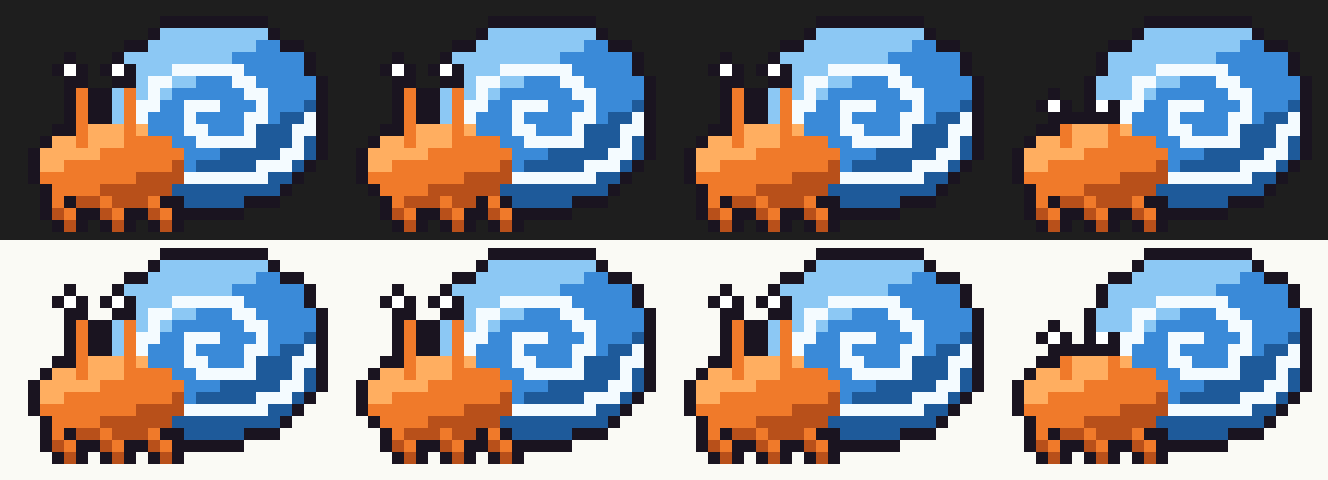
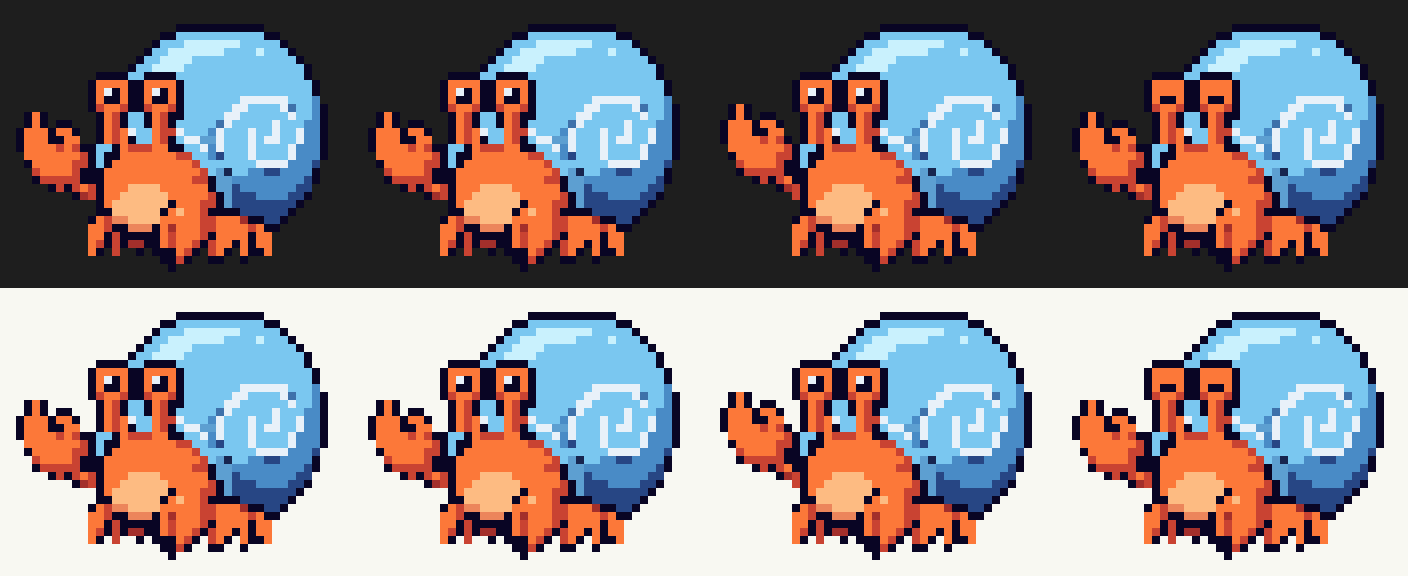
P5-24: redraw Crabbit, Sunmane, Twiggle, Flopple and Serpentide
Each is converted from @victor-aguilars' generator reference with ref-sprite,
then finished by hand (faces, eyes, outlines, spots). Designs, colours, types
and dex entries are unchanged. Sunmane and Serpentide are close-ups that keep
the flame tail and the water ring. Idles are calm: 2-3 fps, mostly rest frames.

Updates credits, previews, roadmap (P5-24 done), workboard, and adds the
session handoff.

diff --git a/docs/sessions/2026-10-16-victor-aguilars-P5-24.md b/docs/sessions/2026-10-16-victor-aguilars-P5-24.md
@@ -1,0 +1,87 @@
+# Session — 2026-10-16 — @victor-aguilars — P5-24 Redraw the first five Modsters
+
+- **Task:** P5-24 — Redraw the first five Modsters
+- **Branch:** `p5-24-redraw-first-five` (from the `victor-aguilars` fork, based on `claim/p5-24`)
+- **Status at end:** in-review
+- **Last commit:** see the PR (this handoff is in the same commit)
+
+## Goal for this session
+
+Bring Crabbit, Sunmane, Twiggle, Flopple and Serpentide up to the upgraded art
+style with more detail and better idle animations, and finish every "done when"
+item of P5-24.
+
+## Done
+
+- P5-24 added to `docs/ROADMAP.md` and claimed (PR #122, `claim/p5-24`).
+- Reference prompts written; @victor-aguilars made one reference per Modster
+  (plus hide poses for Crabbit and Twiggle) with an image generator. References
+  stay out of the repo.
+- New `sprite.png` + `sprite.sprite.json` (via `npm run sprite`) for all five,
+  4 frames each:
+  - **Crabbit** 40×32, 14 colours, 2 fps: rest, rest, claw wave, blink. Eyes repainted.
+  - **Sunmane** 44×32, 24 colours, 3 fps: a close-up of head, flame mane and
+    tail. Face repainted (eyes, muzzle, nose, mouth). Rest, two soft mane
+    flickers, blink.
+  - **Twiggle** 32×30, 20 colours, 2 fps: rest, rest, glance left, blink.
+    Black specks turned into twig shadow; the hollow and eyes repainted.
+  - **Flopple** 46×30, 24 colours, 2 fps: rest, breath, rest, breath with a
+    rising Z. Face redrawn (the shrink erased it).
+  - **Serpentide** 34×32, 24 colours, 2 fps: a head-and-neck close-up rising
+    from a hand-drawn foam ring. Eye repainted, gold spots added. Rest, foam
+    shimmer, rest, blink.
+- `fps` updated in each `modster.json`. Names, text and dex entries unchanged.
+- `plugin/content/CREDITS.md` rows note the P5-24 redraws.
+- `docs/previews/<id>.png` regenerated for all five; `docs/previews/p5-24-redraws.gif`
+  shows the five animating on a 4 s loop, dark and light.
+- Verified: `npm run check:content` (no errors), `node tools/check-tracking.mjs`,
+  `claude plugin validate ./plugin --strict`, `claude plugin test ./plugin`
+  (670 pass). Approved by @victor-aguilars from enlarged previews and the GIF.
+  Not tried in a live session.
+
+## Decisions made
+
+- P5-24 is a new task, not part of P5-21; one PR for all five (@victor-aguilars).
+- Keep each design, colours, types and dex entry (@victor-aguilars).
+- Sunmane and Serpentide are close-ups so their faces read, but keep Sunmane's
+  tail and Serpentide's water ring (@victor-aguilars).
+- Animations calmed down after a first richer pass felt distracting: 2–3 fps,
+  mostly rest frames, one or two small moves (@victor-aguilars).
+- Crabbit's and Twiggle's hide poses were not used: Crabbit's shows the shell at
+  another angle, and Twiggle hiding every loop was too distracting.
+
+## Problems and findings
+
+- `ref-sprite`'s cut-out failed on four of five references (outlines not dark
+  enough, scenic backgrounds). What worked: key the background first by region
+  growing from the crop edges (neighbour colour step < 14), keep the largest
+  shape, fill holes, paint a 2 px dark ring, then run `ref-sprite` on that and
+  add a 1 px outline afterwards. Scripts lived in the scratchpad.
+- For a close-up cut at the bottom, pass `--edges top,left,right` to both the
+  keying and `ref-sprite`.
+- An area-average shrink was tried against `ref-sprite`'s majority vote; it was
+  muddier. Majority vote stays the better choice.
+- Faces get lost when the iris colour is close to the fur (Sunmane). Pick a
+  clearly darker iris.
+- A tumbleweed's twigs turn into speckles at 30 px; recolouring interior black
+  specks to a twig-shadow brown fixed most of it.
+- `npm run sprite` needs an even frame height; pad 1 transparent row on top.
+- The previous handoff's note holds: repo tools need Node 22.18+
+  (`~/.nvm/versions/node/v22.23.3/bin`).
+
+## Next steps
+
+1. @danielpg95 reviews the P5-24 PR; someone runs `claude --plugin-dir ./plugin`, checks Saltbreeze Bay and Dustwind Expanse with `/modsters hunt` on a dark and a light theme, and ticks the PR's "Tried it" box.
+2. Continue P5-21 (Saltbreeze Bay roster) with the same reference workflow.
+
+## Open questions
+
+- Close-up framing is now used for Reyrayo, Sunmane and Serpentide. Should it become a decision for large or detailed creatures? — @victor-aguilars, then the maintainer
+
+## Found along the way
+
+- `ref-sprite` could take a `--key-bg` option (region-grow the background and add
+  a dark ring) and pad to an even height; both were needed here again.
+- `tools/preview.mjs` (8× previews and roster GIFs) is still missing; previews
+  came from one-off scripts again.
+- PR #113's roster GIF covered 1 s; a 4 s loop shows every frame at 2–3 fps.

diff --git a/docs/ROADMAP.md b/docs/ROADMAP.md
@@ -611,13 +611,13 @@ Goal: users keep or remove built-ins and add, edit, and remove their own biomes 
   - [x] `npm run check:content` passes.
   - [x] A preview in the PR description (enlarged, every frame, dark and light).
 
-#### [ ] P5-24 — Redraw the first five Modsters
+#### [x] P5-24 — Redraw the first five Modsters
 - **Depends on:** P5-22
 - **Size:** M
-- **Goal:** bring Crabbit (#003), Sunmane (#004), Twiggle (#005), Flopple (#006) and Serpentide (#007) up to the upgraded art style, with more detail and better idle animations (asked by @victor-aguilars, 2026-10-16). Each is redrawn from @victor-aguilars' reference with `npm run ref-sprite`, keeping its design, colours, types and dex entry.
+- **Goal:** bring Crabbit (#003), Sunmane (#004), Twiggle (#005), Flopple (#006) and Serpentide (#007) up to the upgraded art style, with more detail and better idle animations (asked by @victor-aguilars, 2026-10-16). Each is redrawn from @victor-aguilars' reference with `npm run ref-sprite`, keeping its design, colours, types and dex entry. Sunmane and Serpentide are shown as close-ups so their faces read, keeping Sunmane's flame tail and Serpentide's water ring (asked by @victor-aguilars, 2026-10-16).
 - **Done when:**
-  - [ ] Each of the five has a new `sprite.png` and `sprite.sprite.json` (converted with `npm run sprite`): up to 32 px tall and 48 px wide (decision 0033), ≤ 24 colours (decision 0034), 2–4 frames.
-  - [ ] Each idle animates a part that matches its text: Crabbit peeks from its shell, Sunmane's mane flickers, Twiggle peeks out of its tumbleweed, Flopple sleeps and breathes, Serpentide sways above a ripple.
-  - [ ] The credits rows in `plugin/content/CREDITS.md` for the five sprites are updated.
-  - [ ] `npm run check:content` passes.
-  - [ ] `docs/previews/` is regenerated for the five, and the PR description shows each one (enlarged, every frame, dark and light).
+  - [x] Each of the five has a new `sprite.png` and `sprite.sprite.json` (converted with `npm run sprite`): up to 32 px tall and 48 px wide (decision 0033), ≤ 24 colours (decision 0034), 2–4 frames.
+  - [x] Each has a calm idle (2–3 fps, mostly rest frames, asked by @victor-aguilars, 2026-10-16): Crabbit waves its claw and blinks, Sunmane's mane flickers and it blinks, Twiggle glances and blinks from its hollow, Flopple breathes in its sleep with a rising Z, Serpentide blinks above a shimmering foam ring.
+  - [x] The credits rows in `plugin/content/CREDITS.md` for the five sprites are updated.
+  - [x] `npm run check:content` passes.
+  - [x] `docs/previews/` is regenerated for the five, and the PR description shows each one (enlarged, every frame, dark and light).

diff --git a/plugin/content/CREDITS.md b/plugin/content/CREDITS.md
@@ -16,11 +16,11 @@ noted (decision 0011). Add a row whenever you add or change an asset.
 | `modsters/lamparito/sprite.png` | @victor-aguilars (drawn with Claude Code) | CC BY 4.0 | |
 | `modsters/dunebun/sprite.png` | @victor-aguilars (drawn with Claude Code) | CC BY 4.0 | |
 | `modsters/hootlet/sprite.png` | @danielpg95 and @victor-aguilars (drawn with Claude Code) | CC BY 4.0 | Hootlet, redrawn in P5-23 from @danielpg95's reference, keeping @victor-aguilars' design (leafy owlet with a head sprout) |
-| `modsters/crabbit/sprite.png` | @victor-aguilars (drawn with Claude Code) | CC BY 4.0 | |
-| `modsters/sunmane/sprite.png` | @victor-aguilars (drawn with Claude Code) | CC BY 4.0 | |
-| `modsters/twiggle/sprite.png` | @victor-aguilars (drawn with Claude Code) | CC BY 4.0 | |
-| `modsters/flopple/sprite.png` | @victor-aguilars (drawn with Claude Code) | CC BY 4.0 | |
-| `modsters/serpentide/sprite.png` | @victor-aguilars (drawn with Claude Code) | CC BY 4.0 | |
+| `modsters/crabbit/sprite.png` | @victor-aguilars (drawn with Claude Code) | CC BY 4.0 | Crabbit, redrawn in P5-24 from @victor-aguilars' reference |
+| `modsters/sunmane/sprite.png` | @victor-aguilars (drawn with Claude Code) | CC BY 4.0 | Sunmane, redrawn in P5-24 from @victor-aguilars' reference as a close-up (head, mane and tail) |
+| `modsters/twiggle/sprite.png` | @victor-aguilars (drawn with Claude Code) | CC BY 4.0 | Twiggle, redrawn in P5-24 from @victor-aguilars' reference |
+| `modsters/flopple/sprite.png` | @victor-aguilars (drawn with Claude Code) | CC BY 4.0 | Flopple, redrawn in P5-24 from @victor-aguilars' reference |
+| `modsters/serpentide/sprite.png` | @victor-aguilars (drawn with Claude Code) | CC BY 4.0 | Serpentide, redrawn in P5-24 from @victor-aguilars' reference as a close-up; the water ring is hand-drawn |
 | `modsters/sporrow/sprite.png` | @danielpg95 and @victor-aguilars (drawn with Claude Code) | CC BY 4.0 | Sporrow, redrawn in P5-19 from @danielpg95's reference, keeping @victor-aguilars' design (puppet fungus) |
 | `modsters/fernox/sprite.png` | @danielpg95 and @victor-aguilars (drawn with Claude Code) | CC BY 4.0 | Fernox, redrawn in P5-19 from @danielpg95's reference, keeping @victor-aguilars' design (fern-tail fox kit) |
 | `modsters/shardling/sprite.png` | @danielpg95 (drawn with Claude Code) | CC BY 4.0 | Crystal Grotto |

diff --git a/docs/WORKBOARD.md b/docs/WORKBOARD.md
@@ -17,7 +17,6 @@ this file lists only tasks someone has claimed.
 | --- | --- | --- | --- | --- | --- | --- |
 | P5-19 | @danielpg95 | in-review | p5-19-forest-roster | 2026-10-14 | 2026-10-16 | Check the forest live with `/modsters hunt`, then merge PR #112 |
 | P5-21 | @victor-aguilars | in-progress | p5-21-saltbreeze-roster | 2026-10-14 | 2026-10-14 | Design the 5 Saltbreeze Modsters, starting with Lanternmaw |
-| P5-24 | @victor-aguilars | in-progress | p5-24-redraw-first-five | 2026-10-16 | 2026-10-16 | Get generator references for the five, starting with Crabbit |
 
 ## Up next
 
